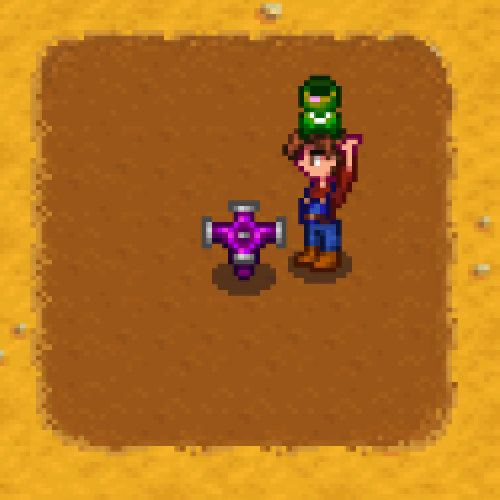
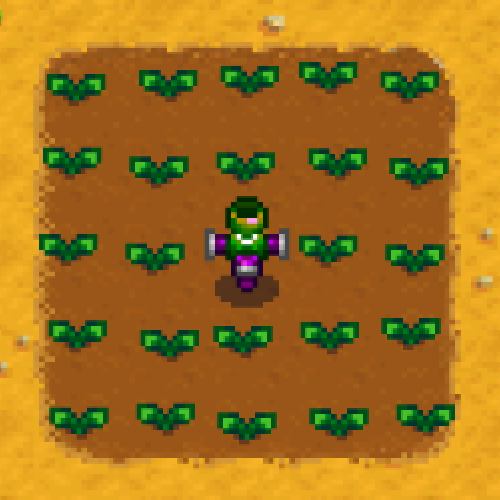
dum

diff --git a/README.md b/README.md
@@ -1,0 +1,8 @@
+Stardew Valley Mods
+
+#### SprinklerAttachments + [CP] SprinklerAttachments
+Adds new items that can be placed on sprinklers to plant seeds and apply fertilizer.
+
+#### CompatibleArtisanGoodsKeepQuality
+Quick n' dirty mod that patches machine recipes to respect quality of input with artisan items, so that iridium produces gold and gold produces silver (silver produces normal, no change).
+Done in C# to apply changes to mods easily, but strange things may happen since the check is not well tested.
